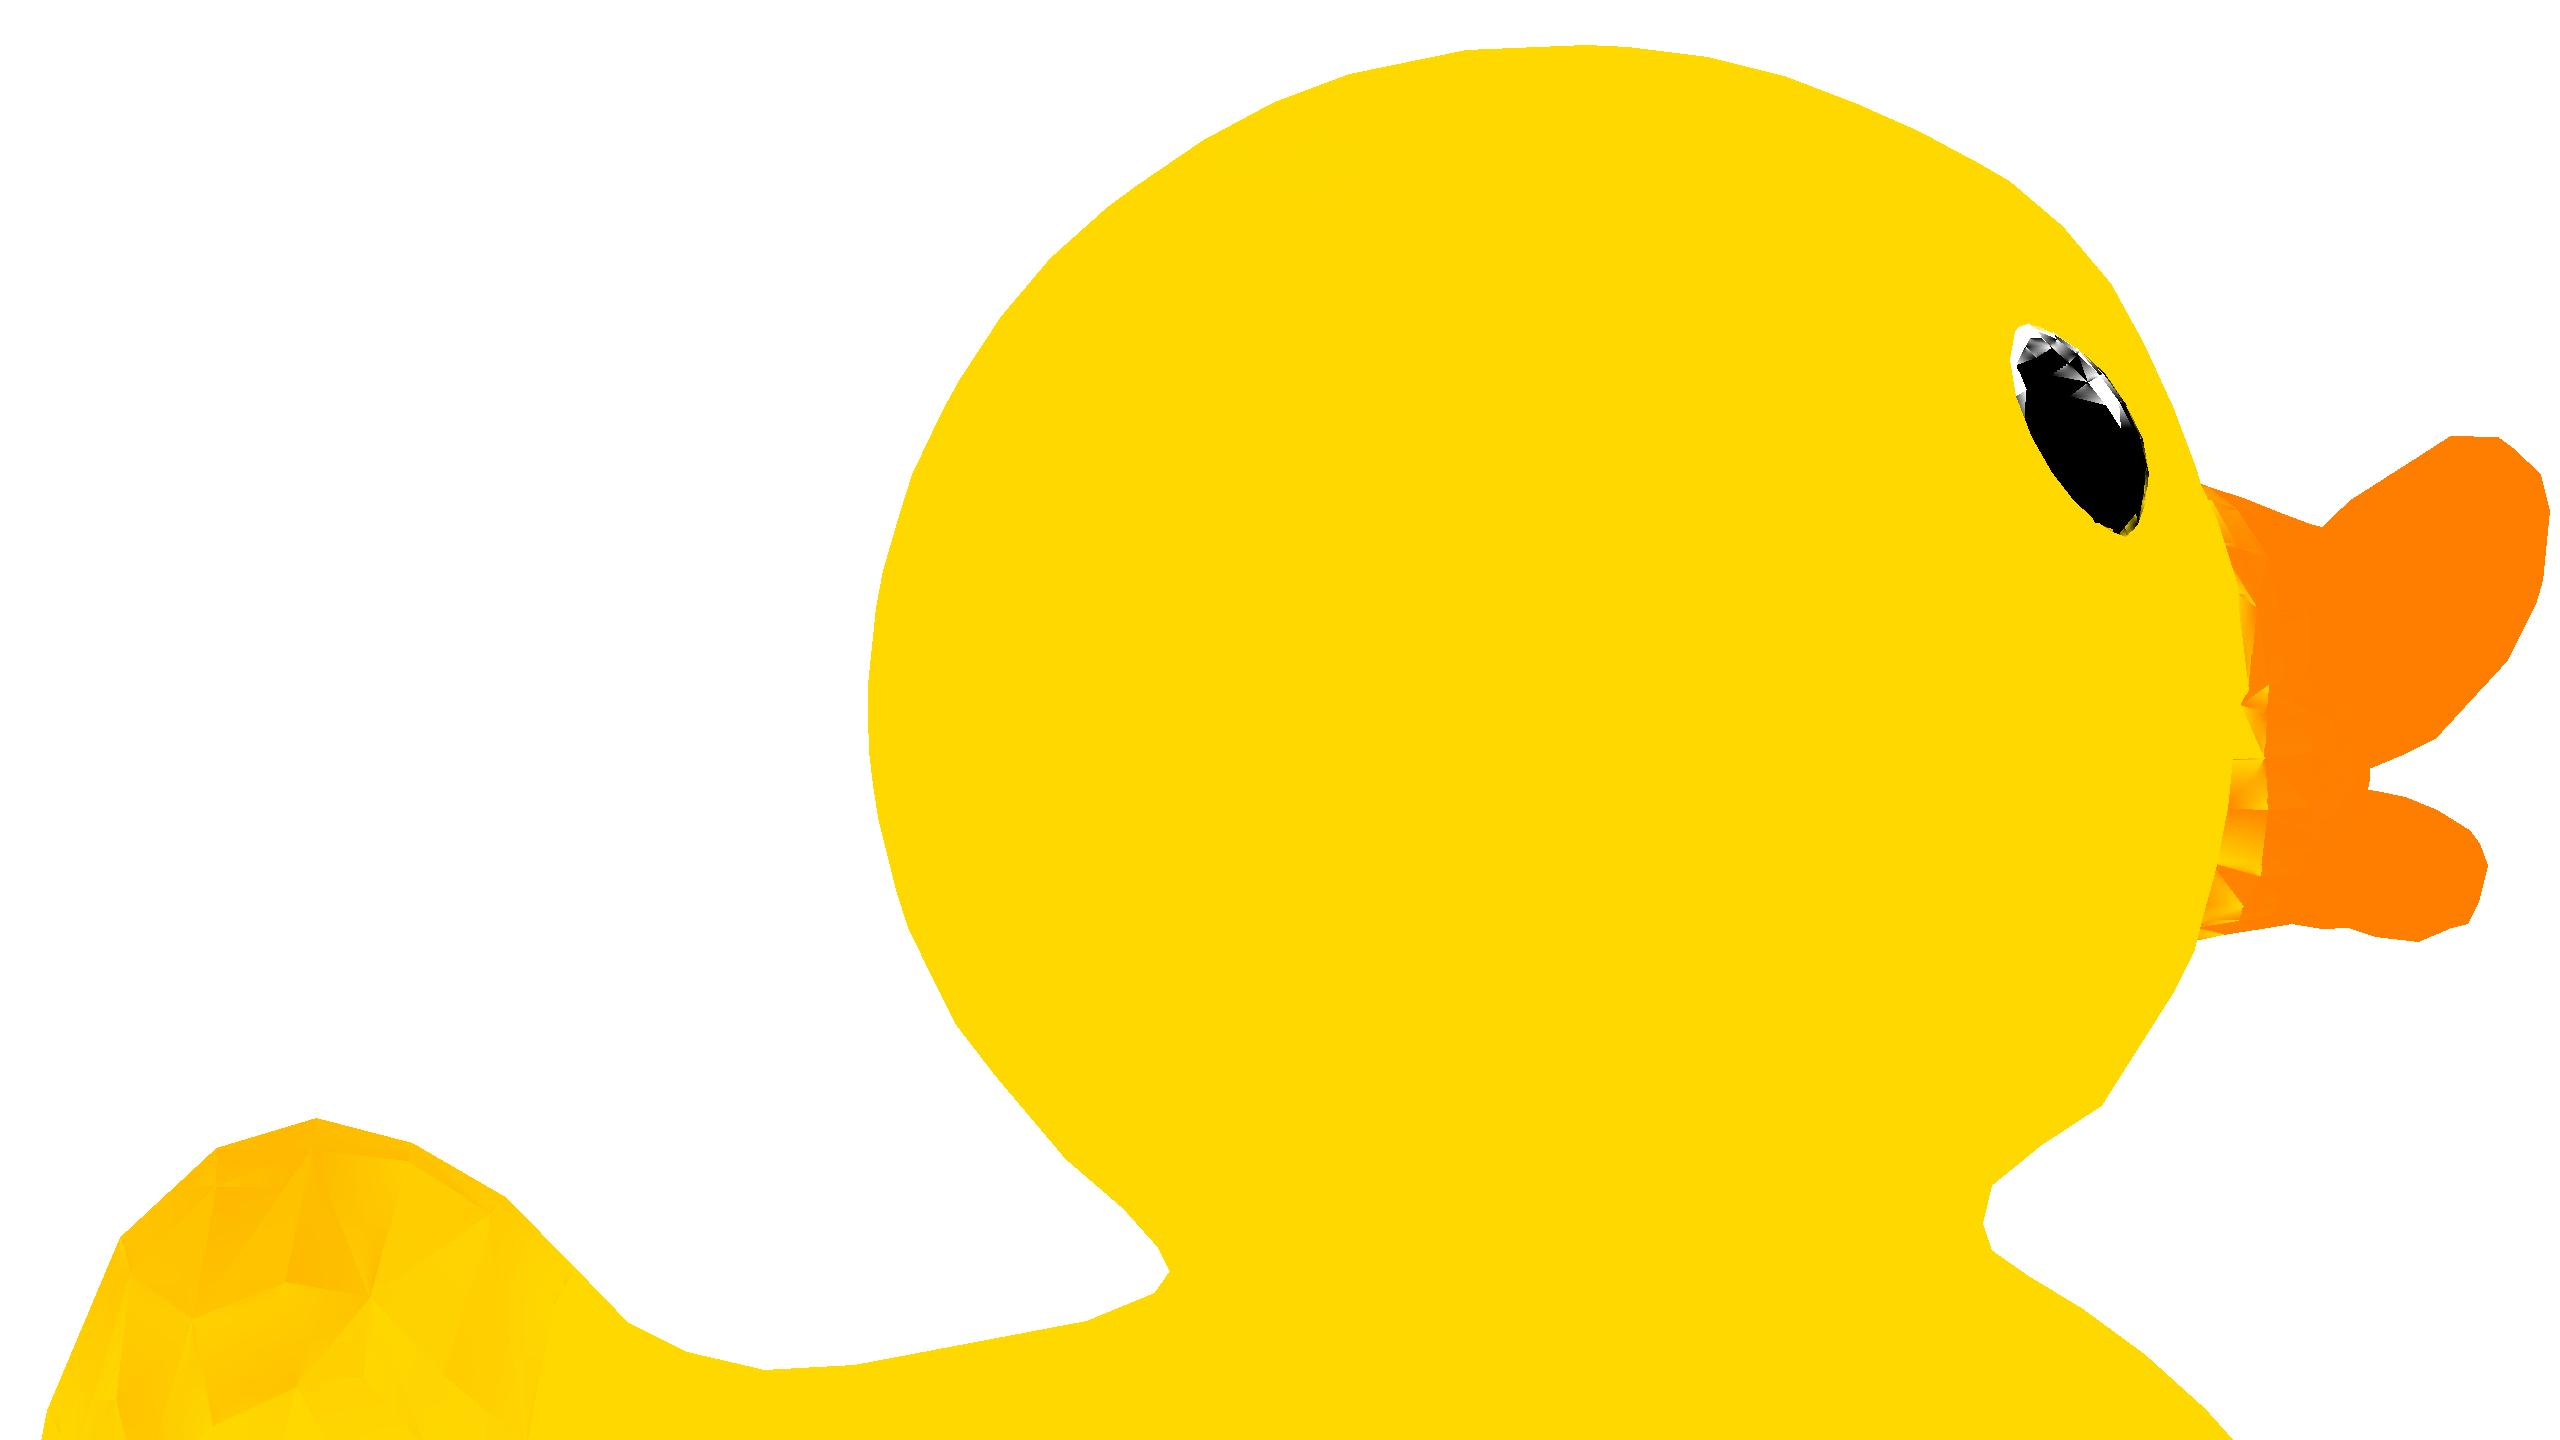
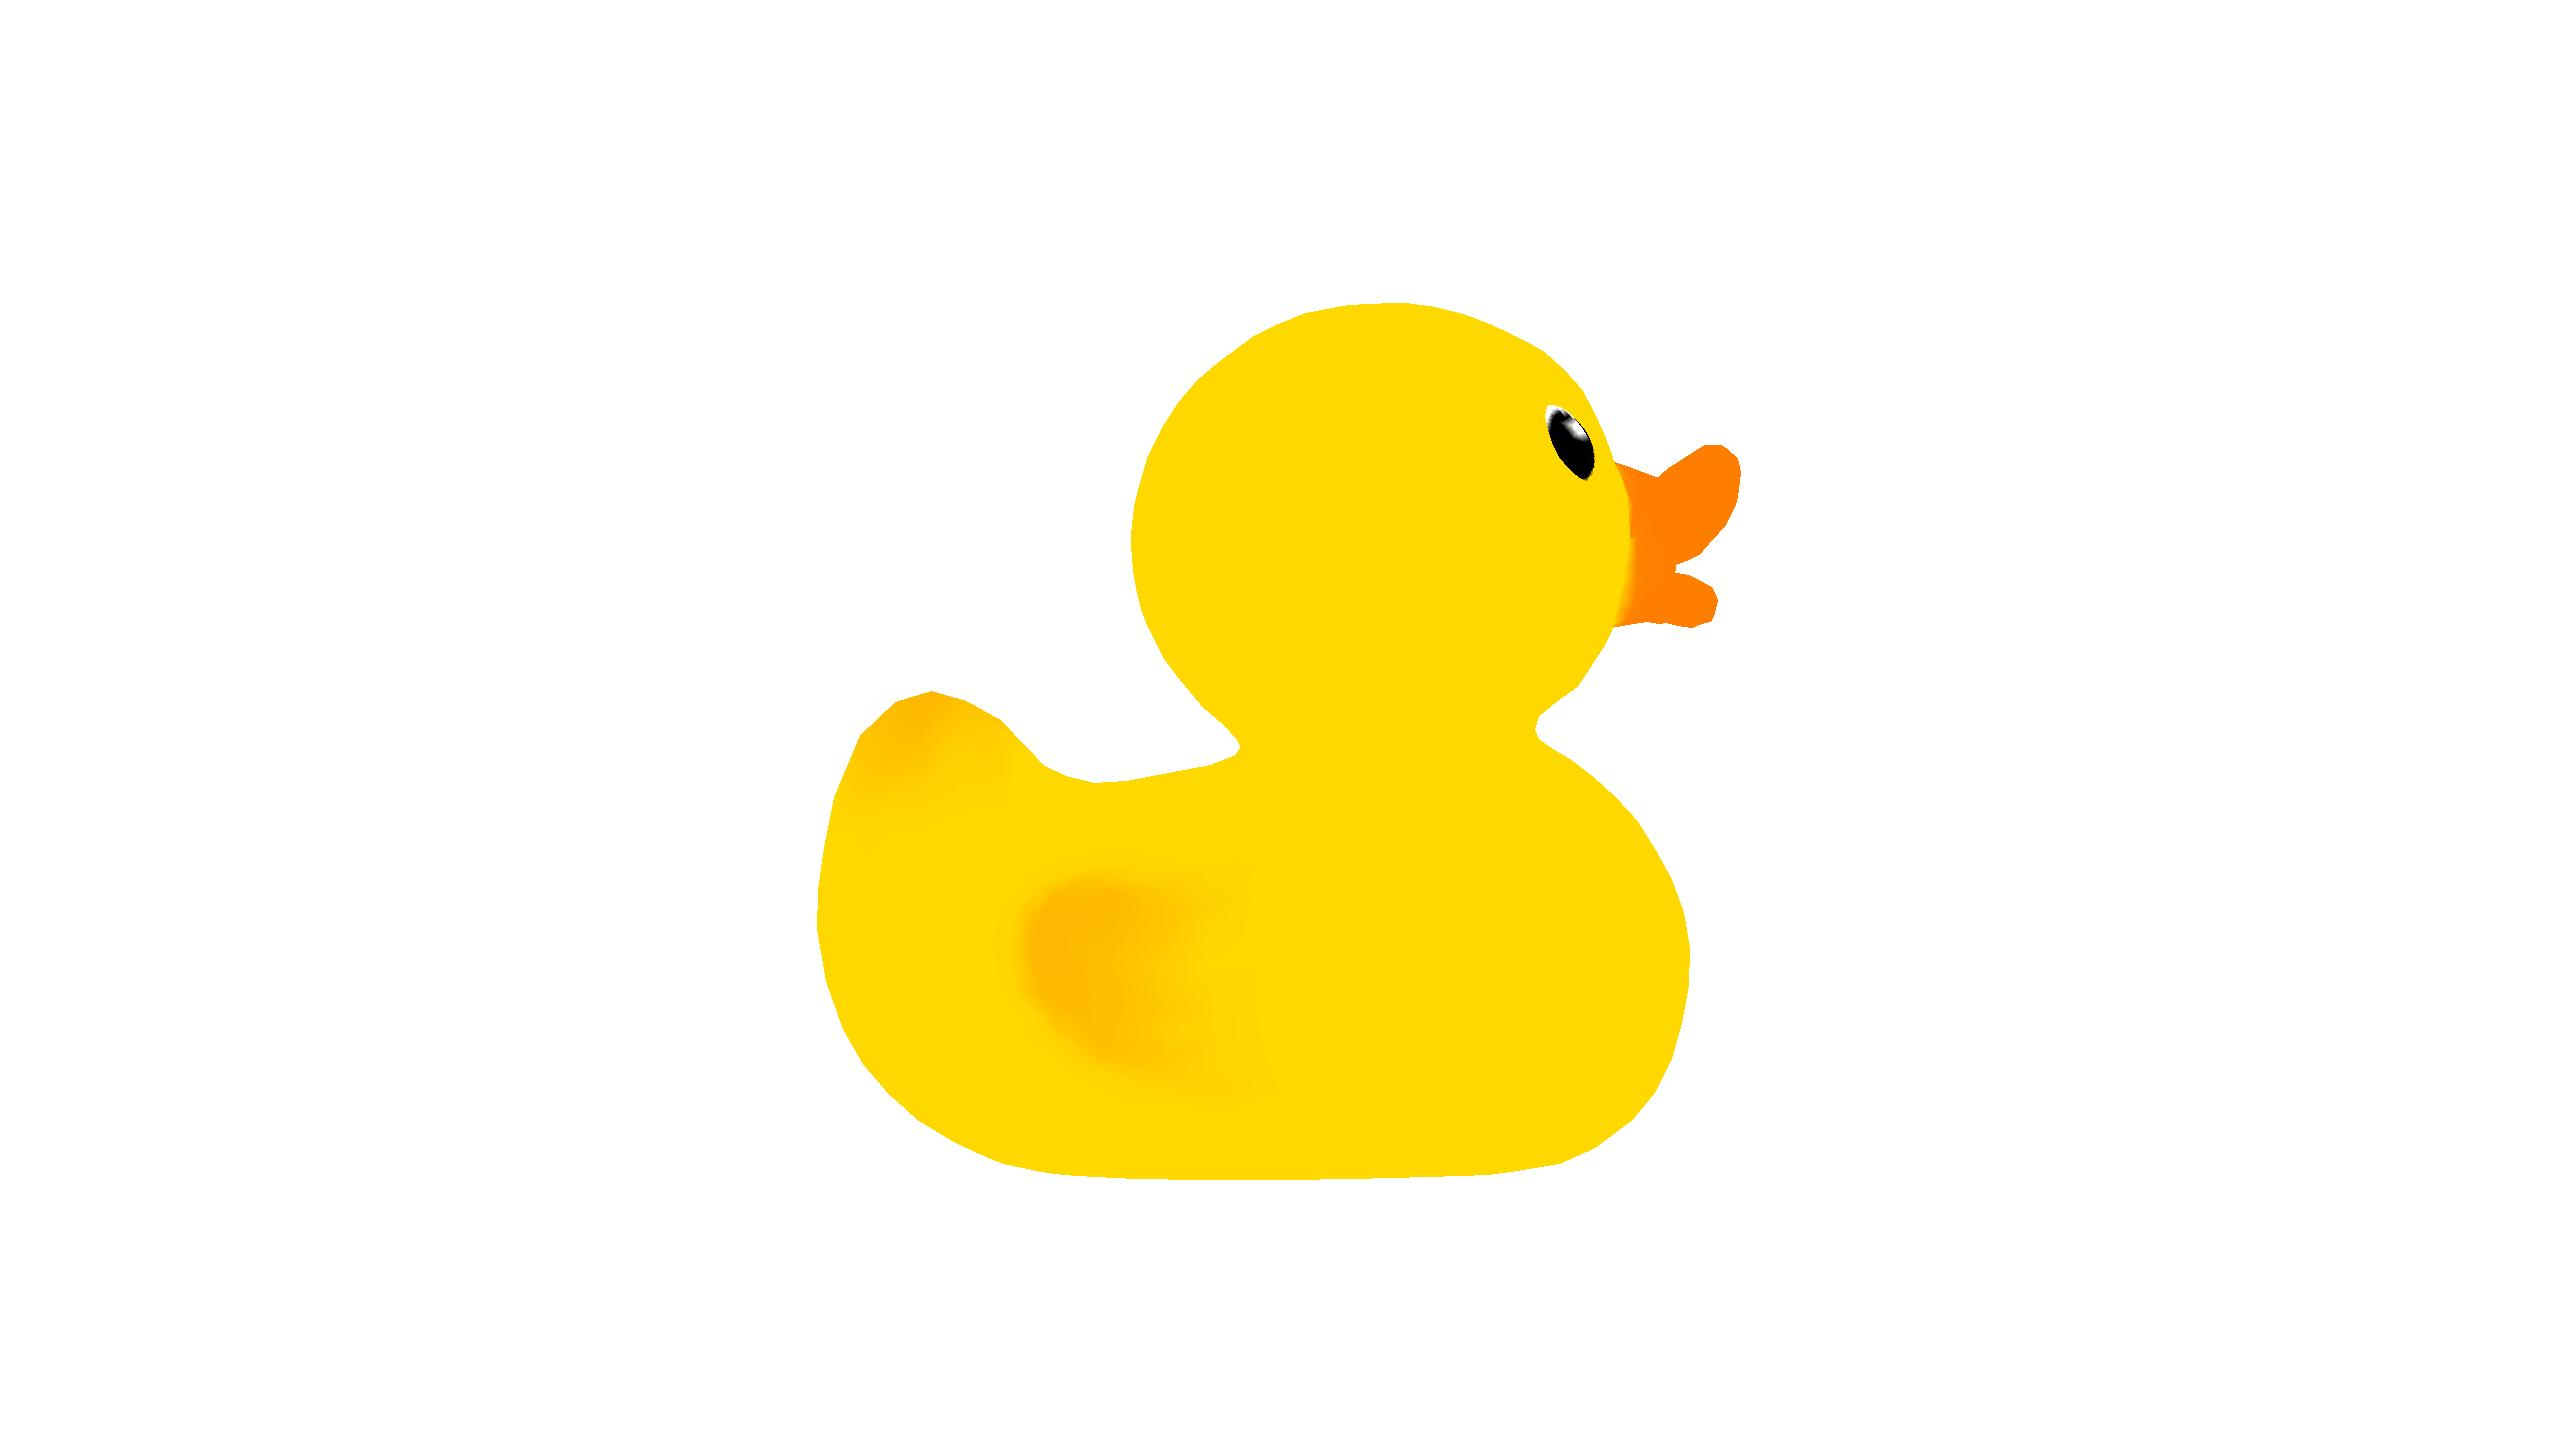
Fixed incorrect shading

diff --git a/Rasterizer-and-Ray-Tracer/src/main/java/Rasterizer.java b/Rasterizer-and-Ray-Tracer/src/main/java/Rasterizer.java
@@ -176,13 +176,8 @@ public class Rasterizer {
 		float[][][] lines = {line1, line2, line3};
 
 		for(int i=0; i<lines.length; i++) {
-			
 			// Before constructing edge list, interpolate Z and RGB values
-			for(int j=2; j<6; j++) {
-				lines[i][0][j] = polygonPixels[0][j];
-				lines[i][lines[i].length-1][j] = polygonPixels[1][j];
-			}
-			lines[i] = interpolateLine(lines[i]);
+			lines[i] = interpolateLine(lines[i], polygonPixels);
 			
 			//i.e for each point in line
 			for(int j=0; j<lines[i].length; j++) {
@@ -318,7 +313,24 @@ public class Rasterizer {
 	 * 
 	 * @param line a line with z and RGB values assigned to the first and last index
 	 */
-	public float[][] interpolateLine(float[][] line) {
+	public float[][] interpolateLine(float[][] line, float[][]polygonPixels) {
+		float endX = line[line.length-1][0];
+		float endY = line[line.length-1][1];
+		
+		// Find the correct Z and RGB values to assign to the start and end of the line
+		for(int i=0; i<3; i++) {
+			
+			if (polygonPixels[i][0] == line[0][0] && polygonPixels[i][1] == line[0][1]) {
+				for(int j=2; j<6; j++) line[0][j] = polygonPixels[i][j];
+			}
+			
+			if (polygonPixels[i][0] == line[line.length-1][0] && polygonPixels[i][1] == line[line.length-1][1]) {
+				for(int j=2; j<6; j++) line[line.length-1][j] = polygonPixels[i][j];;
+			}
+					
+		}
+		
+		
 		line[0][2] = Math.round(line[0][2]*100f)/100f;
 		line[line.length-1][2] = Math.round(line[line.length-1][2]*100f)/100f;
 		// Interpolate Z values along line

diff --git a/Rasterizer-and-Ray-Tracer/src/main/java/Camera.java b/Rasterizer-and-Ray-Tracer/src/main/java/Camera.java
@@ -87,11 +87,11 @@ public class Camera {
 		float aspect = height2d/width2d;
 		
 		// TODO FIX THIS
-//		this.f = (width/width2d)-10000;
-		this.f = (width/width2d);
+		this.f = (width/width2d)-10000;
+//		this.f = (width/width2d);
 		this.cx = width/2;
-//		this.cy = (float) (Math.ceil(width*aspect)/2)-500;
-		this.cy = (float) (Math.ceil(width*aspect)/2);
+		this.cy = (float) (Math.ceil(width*aspect)/2)-500;
+//		this.cy = (float) (Math.ceil(width*aspect)/2);
 		
 		this.K[0][0] = f;
 		this.K[1][1] = f;
